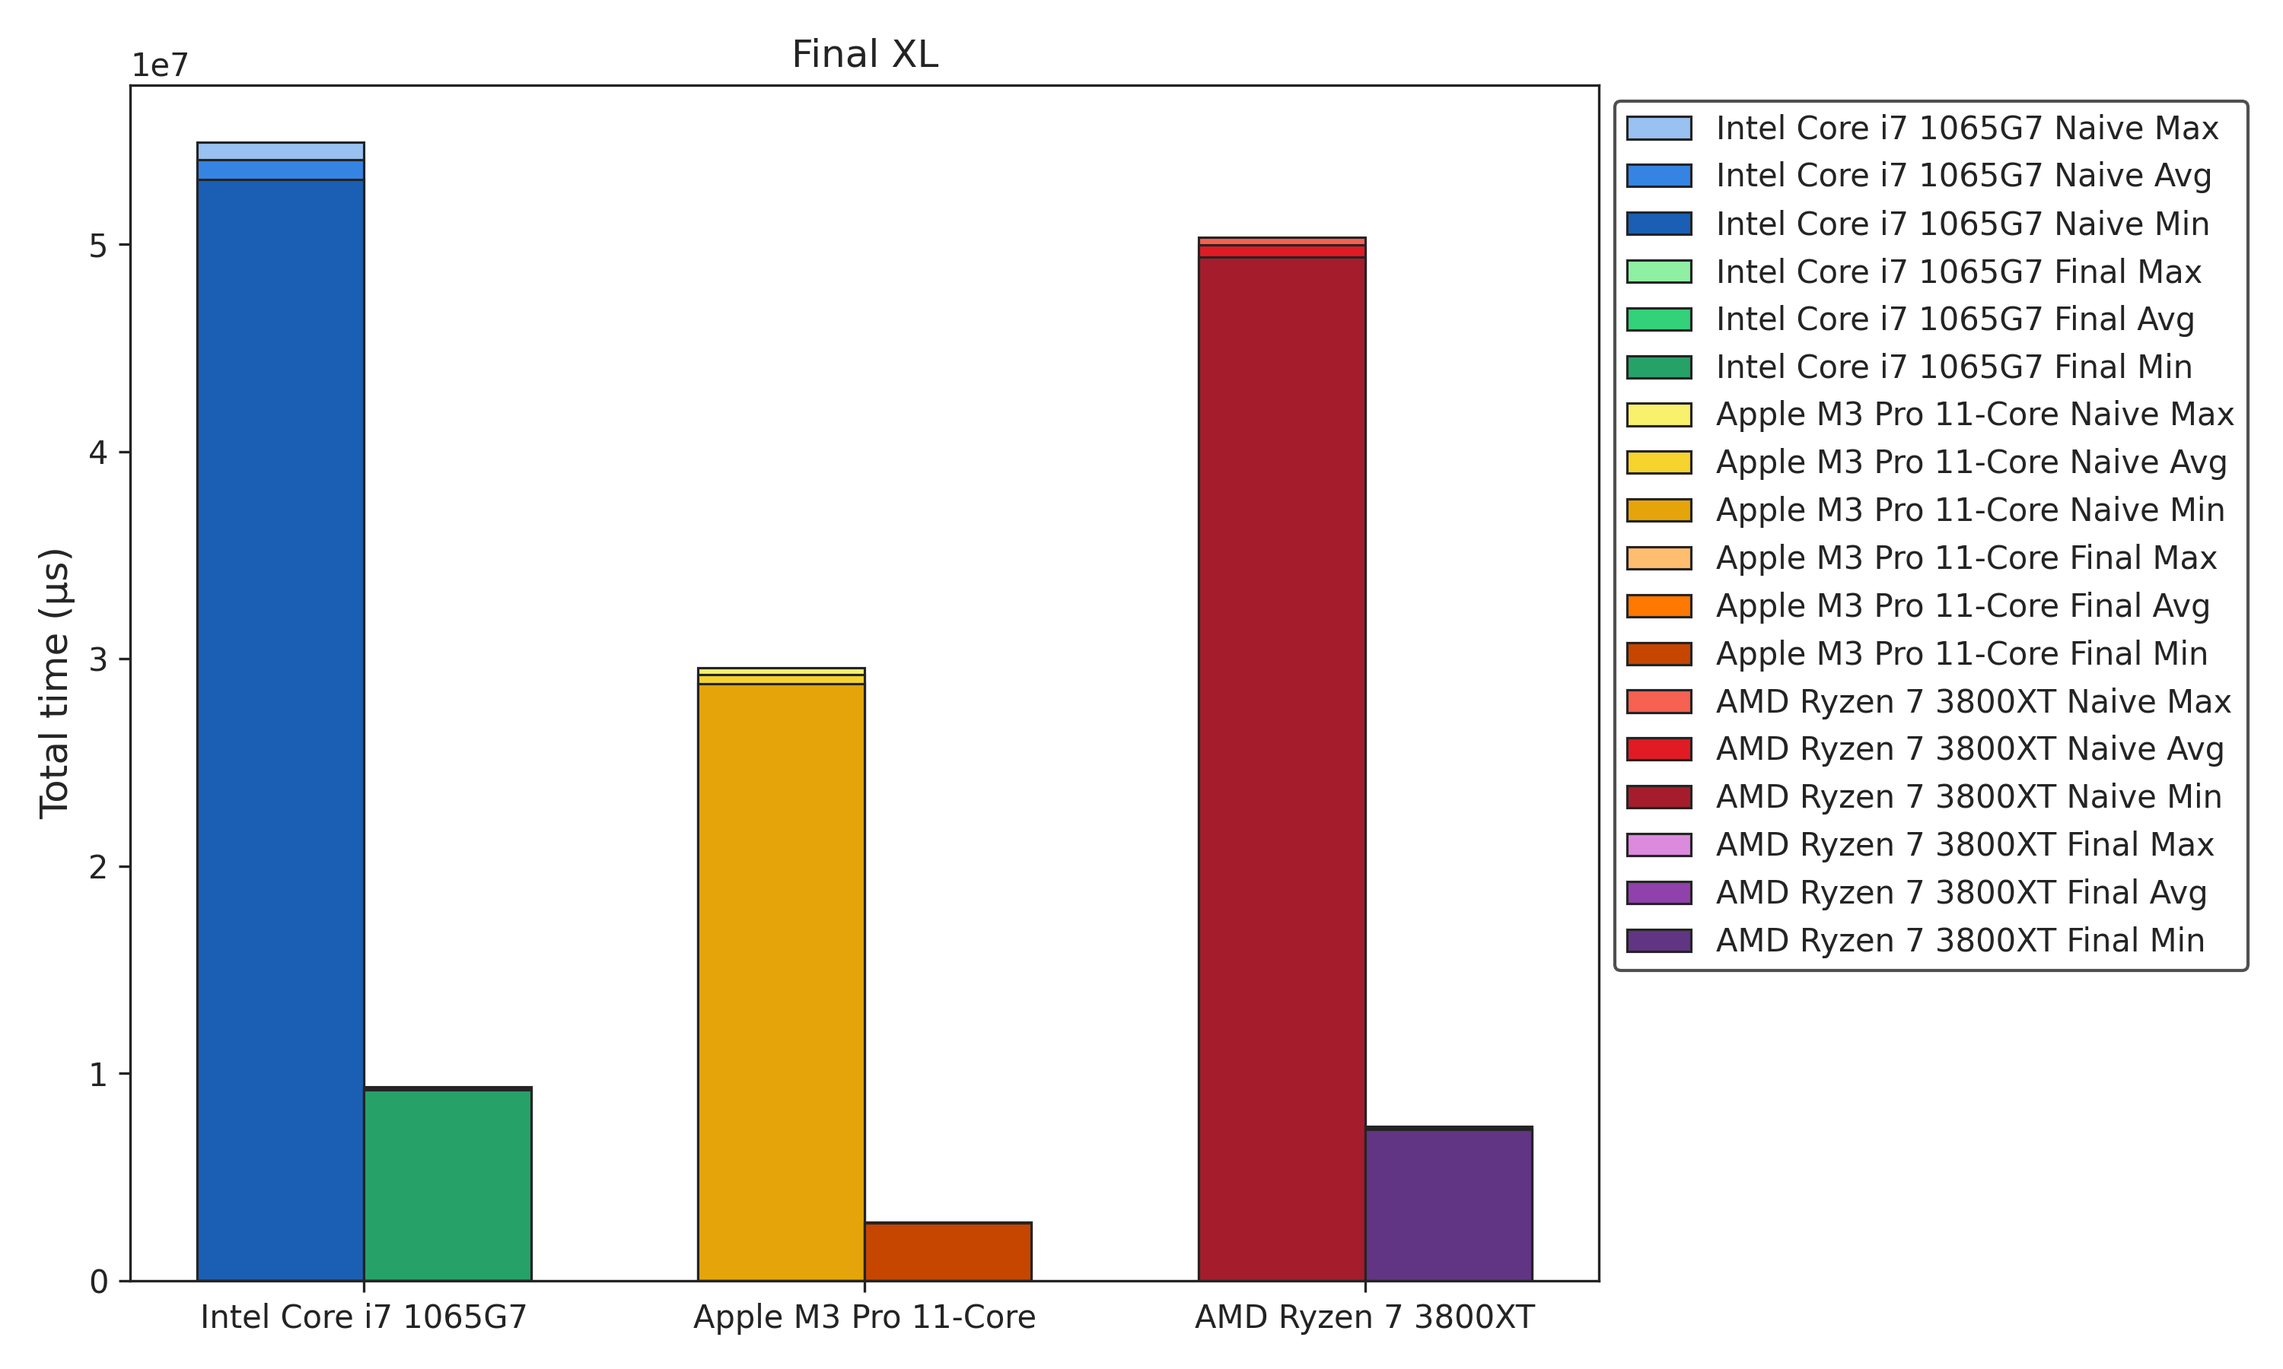
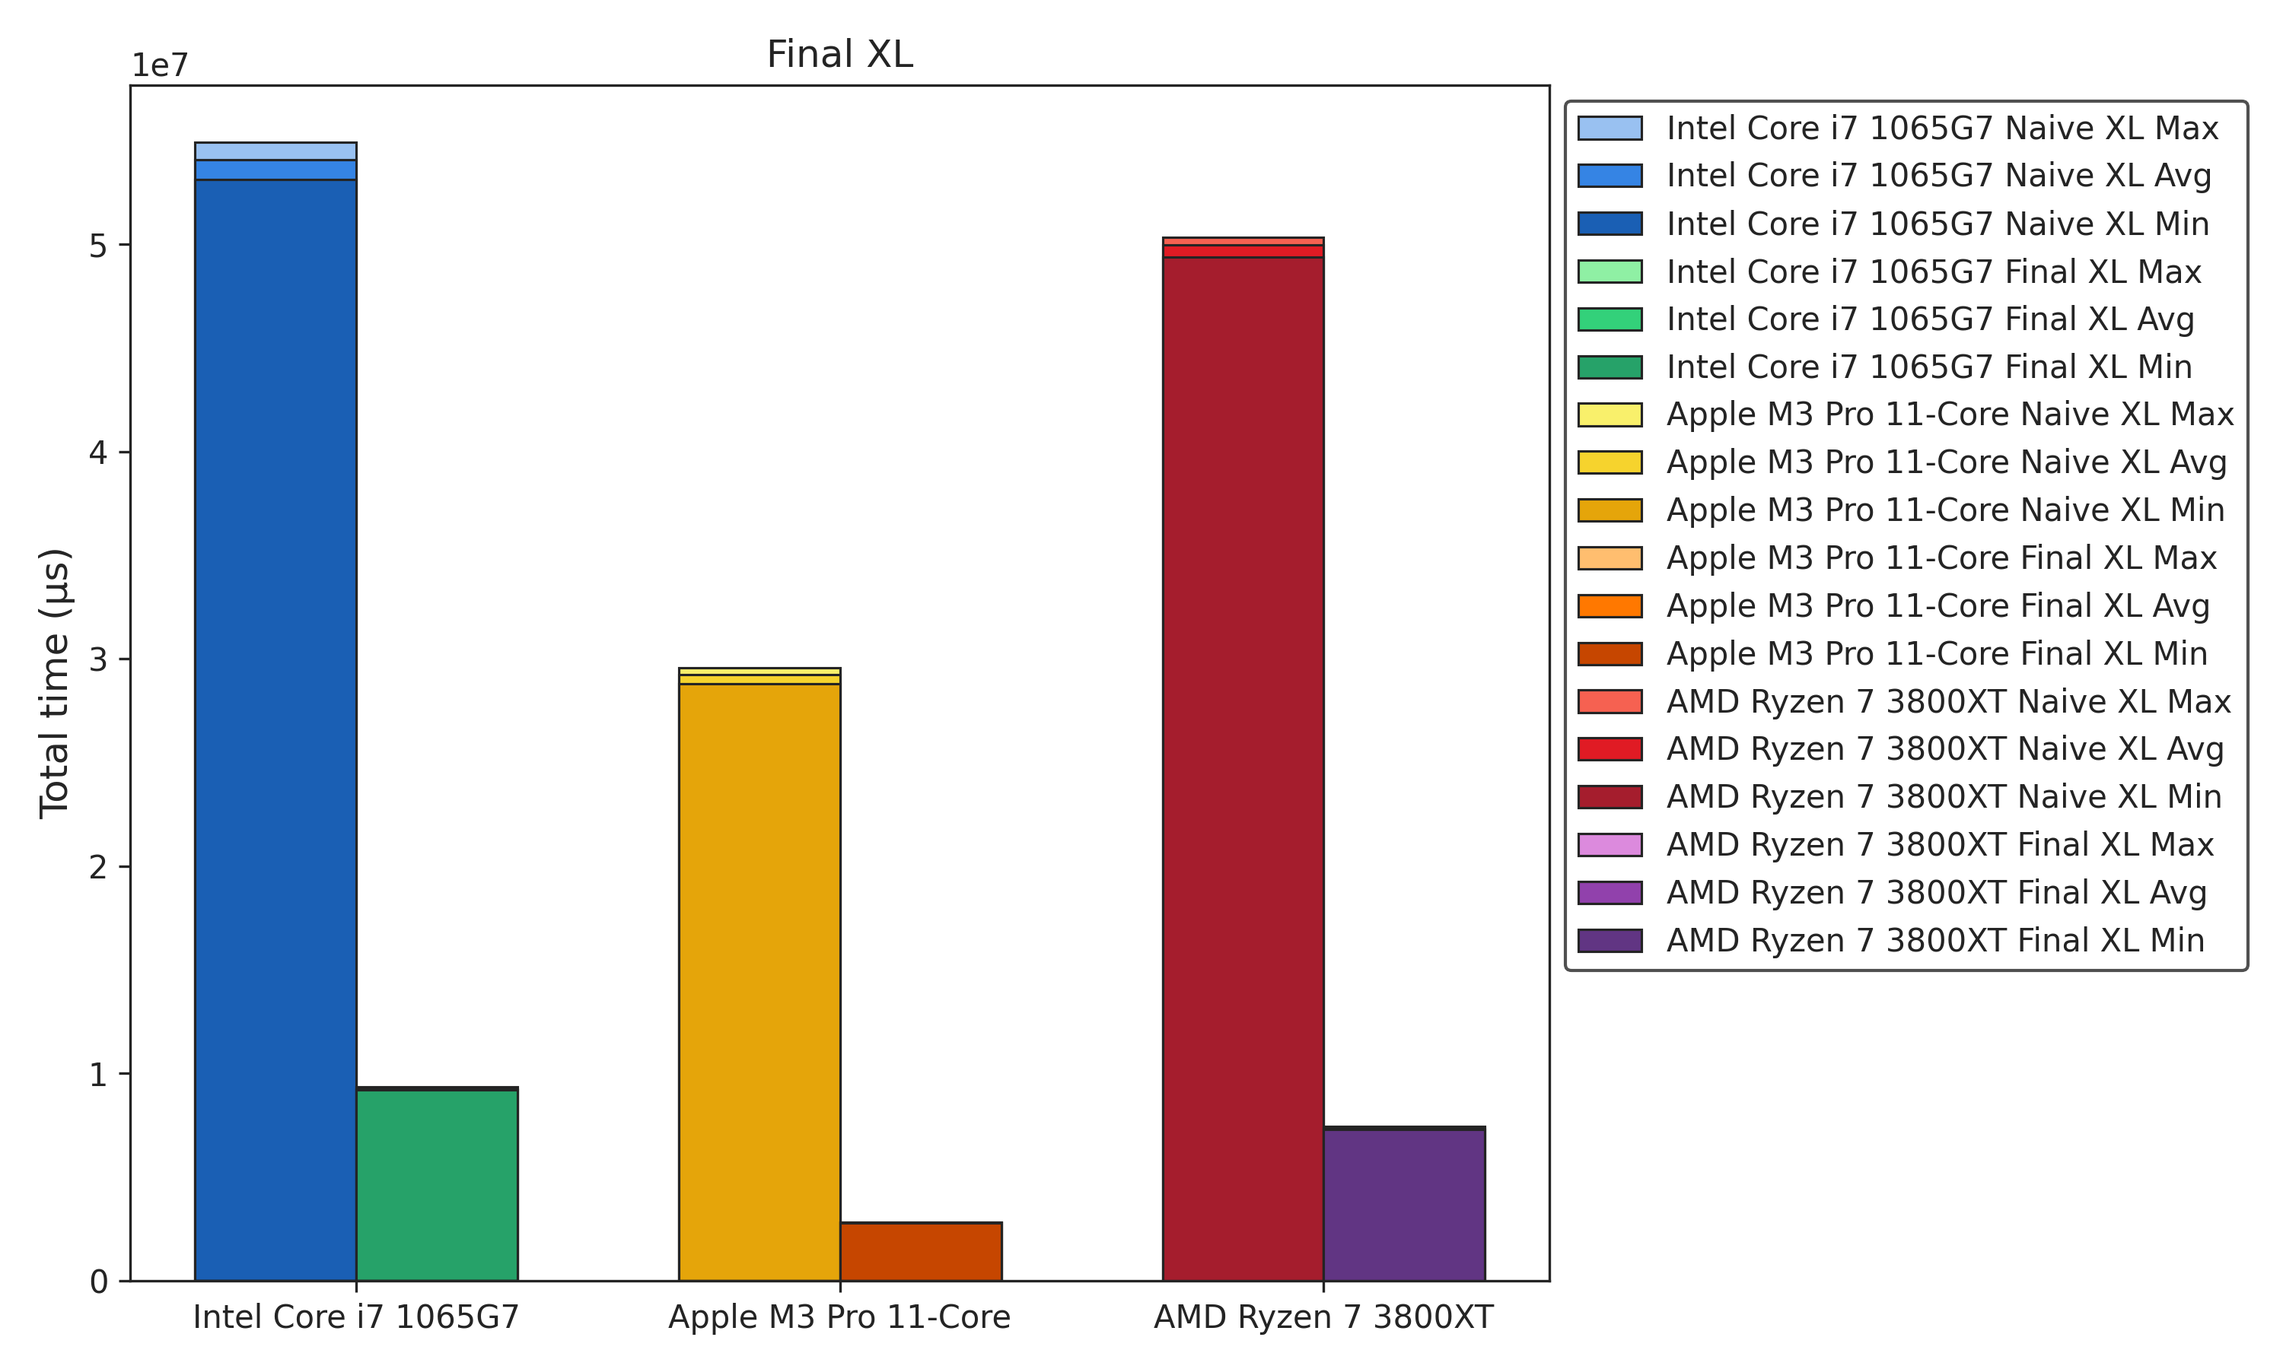
Fixed Final XL
- Fixed Final XL
- Removed avg txt
- Updated Paper Outline
- Updated plot py

diff --git a/Source Code/py/plot.py b/Source Code/py/plot.py
@@ -259,6 +259,17 @@ for f in figures:
             ax.bar(indices, df_dict["amd"]["b_1"]["min"], width=bar_width, label=f"{label_amd} Naive Min", color="#a51d2d", edgecolor=foreground_color, linewidth=0.75)
 
             ax.set_title("Naive", fontsize=12, color=foreground_color, loc="center")
+
+            print(f"naive")
+            print(f'intel: {np.round((df_dict["intel"]["b_1"]["avg"][0] - df_dict["amd"]["b_1"]["avg"][2]) / df_dict["amd"]["b_1"]["avg"][2] * 100, 1)}')
+            print(f'apple: {np.round((df_dict["apple"]["b_1"]["avg"][1] - df_dict["intel"]["b_1"]["avg"][0]) / df_dict["intel"]["b_1"]["avg"][0] * 100, 1)}')
+            print(f'amd: {np.round((df_dict["amd"]["b_1"]["avg"][2] - df_dict["apple"]["b_1"]["avg"][1]) / df_dict["apple"]["b_1"]["avg"][1] * 100, 1)}')
+            print(f"{label_intel} \\\\")
+            print(f'\\hspace{{0.5cm}}Naive & {df_dict["intel"]["b_1"]["min"][0]} & {df_dict["intel"]["b_1"]["avg"][0]} & {df_dict["intel"]["b_1"]["max"][0]} & {df_dict["intel"]["b_1"]["std"][0]} \\\\')
+            print(f"{label_apple} \\\\")
+            print(f'\\hspace{{0.5cm}}Naive & {df_dict["apple"]["b_1"]["min"][1]} & {df_dict["apple"]["b_1"]["avg"][1]} & {df_dict["apple"]["b_1"]["max"][1]} & {df_dict["apple"]["b_1"]["std"][1]} \\\\')
+            print(f"{label_amd} \\\\")
+            print(f'\\hspace{{0.5cm}}Naive & {df_dict["amd"]["b_1"]["min"][2]} & {df_dict["amd"]["b_1"]["avg"][2]} & {df_dict["amd"]["b_1"]["max"][2]} & {df_dict["amd"]["b_1"]["std"][2]} \\\\')
         case "naive_xl":
             group_width = bar_width * 2
             group_gap = 0.15
@@ -275,6 +286,17 @@ for f in figures:
             ax.bar(indices, df_dict["amd"]["xl_1"]["min"], width=bar_width, label=f"{label_amd} Naive XL Min", color="#a51d2d", edgecolor=foreground_color, linewidth=0.75)
 
             ax.set_title("Naive XL", fontsize=12, color=foreground_color, loc="center")
+
+            print(f"naive_xl")
+            print(f'intel: {np.round((df_dict["intel"]["xl_1"]["avg"][0] - df_dict["amd"]["xl_1"]["avg"][2]) / df_dict["amd"]["xl_1"]["avg"][2] * 100, 1)}')
+            print(f'apple: {np.round((df_dict["apple"]["xl_1"]["avg"][1] - df_dict["intel"]["xl_1"]["avg"][0]) / df_dict["intel"]["xl_1"]["avg"][0] * 100, 1)}')
+            print(f'amd: {np.round((df_dict["amd"]["xl_1"]["avg"][2] - df_dict["apple"]["xl_1"]["avg"][1]) / df_dict["apple"]["xl_1"]["avg"][1] * 100, 1)}')
+            print(f"{label_intel} \\\\")
+            print(f'\\hspace{{0.5cm}}Naive XL & {df_dict["intel"]["xl_1"]["min"][0]} & {df_dict["intel"]["xl_1"]["avg"][0]} & {df_dict["intel"]["xl_1"]["max"][0]} & {df_dict["intel"]["xl_1"]["std"][0]} \\\\')
+            print(f"{label_apple} \\\\")
+            print(f'\\hspace{{0.5cm}}Naive XL & {df_dict["apple"]["xl_1"]["min"][1]} & {df_dict["apple"]["xl_1"]["avg"][1]} & {df_dict["apple"]["xl_1"]["max"][1]} & {df_dict["apple"]["xl_1"]["std"][1]} \\\\')
+            print(f"{label_amd} \\\\")
+            print(f'\\hspace{{0.5cm}}Naive XL & {df_dict["amd"]["xl_1"]["min"][2]} & {df_dict["amd"]["xl_1"]["avg"][2]} & {df_dict["amd"]["xl_1"]["max"][2]} & {df_dict["amd"]["xl_1"]["std"][2]} \\\\')
         case "mt_init":
             group_width = bar_width * 2
             group_gap = 0.15
@@ -1032,37 +1054,61 @@ for f in figures:
             b1 = df_dict["intel"]["b_1"]["avg"][0] + df_dict["apple"]["b_1"]["avg"][1] + df_dict["amd"]["b_1"]["avg"][2]
             b2 = df_dict["intel"]["b_7"]["avg"][0] + df_dict["apple"]["b_7"]["avg"][1] + df_dict["amd"]["b_7"]["avg"][2]
 
-            print(f"final: {np.round((b2 - b1) / b1 * 100, 0)}")
+            print(f"final: {np.round((b2 - b1) / b1 * 100, 1)}")
+            print(f'intel: {np.round((df_dict["intel"]["b_7"]["avg"][0] - df_dict["intel"]["b_1"]["avg"][0]) / df_dict["intel"]["b_1"]["avg"][0] * 100, 1)}')
+            print(f'apple: {np.round((df_dict["apple"]["b_7"]["avg"][1] - df_dict["apple"]["b_1"]["avg"][1]) / df_dict["apple"]["b_1"]["avg"][1] * 100, 1)}')
+            print(f'amd: {np.round((df_dict["amd"]["b_7"]["avg"][2] - df_dict["amd"]["b_1"]["avg"][2]) / df_dict["amd"]["b_1"]["avg"][2] * 100, 1)}')
+            print(f"{label_intel} \\\\")
+            print(f'\\hspace{{0.5cm}}Naive & {df_dict["intel"]["b_1"]["min"][0]} & {df_dict["intel"]["b_1"]["avg"][0]} & {df_dict["intel"]["b_1"]["max"][0]} & {df_dict["intel"]["b_1"]["std"][0]} \\\\')
+            print(f'\\hspace{{0.5cm}}Final & {df_dict["intel"]["b_7"]["min"][0]} & {df_dict["intel"]["b_7"]["avg"][0]} & {df_dict["intel"]["b_7"]["max"][0]} & {df_dict["intel"]["b_7"]["std"][0]} \\\\')
+            print(f"{label_apple} \\\\")
+            print(f'\\hspace{{0.5cm}}Naive & {df_dict["apple"]["b_1"]["min"][1]} & {df_dict["apple"]["b_1"]["avg"][1]} & {df_dict["apple"]["b_1"]["max"][1]} & {df_dict["apple"]["b_1"]["std"][1]} \\\\')
+            print(f'\\hspace{{0.5cm}}Final & {df_dict["apple"]["b_7"]["min"][1]} & {df_dict["apple"]["b_7"]["avg"][1]} & {df_dict["apple"]["b_7"]["max"][1]} & {df_dict["apple"]["b_7"]["std"][1]} \\\\')
+            print(f"{label_amd} \\\\")
+            print(f'\\hspace{{0.5cm}}Naive & {df_dict["amd"]["b_1"]["min"][2]} & {df_dict["amd"]["b_1"]["avg"][2]} & {df_dict["amd"]["b_1"]["max"][2]} & {df_dict["amd"]["b_1"]["std"][2]} \\\\')
+            print(f'\\hspace{{0.5cm}}Final & {df_dict["amd"]["b_7"]["min"][2]} & {df_dict["amd"]["b_7"]["avg"][2]} & {df_dict["amd"]["b_7"]["max"][2]} & {df_dict["amd"]["b_7"]["std"][2]} \\\\')
         case "final_xl":
             group_width = bar_width * 2
             group_gap = 0.15
             indices = np.arange(len(threads_omp)) * (group_width + group_gap)
 
-            ax.bar(indices - 0.5 * bar_width, df_dict["intel"]["xl_1"]["max"], width=bar_width, label=f"{label_intel} Naive Max", color="#99c1f1", edgecolor=foreground_color, linewidth=0.75)
-            ax.bar(indices - 0.5 * bar_width, df_dict["intel"]["xl_1"]["avg"], width=bar_width, label=f"{label_intel} Naive Avg", color="#3584e4", edgecolor=foreground_color, linewidth=0.75)
-            ax.bar(indices - 0.5 * bar_width, df_dict["intel"]["xl_1"]["min"], width=bar_width, label=f"{label_intel} Naive Min", color="#1a5fb4", edgecolor=foreground_color, linewidth=0.75)
-            ax.bar(indices + 0.5 * bar_width, df_dict["intel"]["xl_7"]["max"], width=bar_width, label=f"{label_intel} Final Max", color="#8ff0a4", edgecolor=foreground_color, linewidth=0.75)
-            ax.bar(indices + 0.5 * bar_width, df_dict["intel"]["xl_7"]["avg"], width=bar_width, label=f"{label_intel} Final Avg", color="#33d17a", edgecolor=foreground_color, linewidth=0.75)
-            ax.bar(indices + 0.5 * bar_width, df_dict["intel"]["xl_7"]["min"], width=bar_width, label=f"{label_intel} Final Min", color="#26a269", edgecolor=foreground_color, linewidth=0.75)
-            ax.bar(indices - 0.5 * bar_width, df_dict["apple"]["xl_1"]["max"], width=bar_width, label=f"{label_apple} Naive Max", color="#f9f06b", edgecolor=foreground_color, linewidth=0.75)
-            ax.bar(indices - 0.5 * bar_width, df_dict["apple"]["xl_1"]["avg"], width=bar_width, label=f"{label_apple} Naive Avg", color="#f6d32d", edgecolor=foreground_color, linewidth=0.75)
-            ax.bar(indices - 0.5 * bar_width, df_dict["apple"]["xl_1"]["min"], width=bar_width, label=f"{label_apple} Naive Min", color="#e5a50a", edgecolor=foreground_color, linewidth=0.75)
-            ax.bar(indices + 0.5 * bar_width, df_dict["apple"]["xl_7"]["max"], width=bar_width, label=f"{label_apple} Final Max", color="#ffbe6f", edgecolor=foreground_color, linewidth=0.75)
-            ax.bar(indices + 0.5 * bar_width, df_dict["apple"]["xl_7"]["avg"], width=bar_width, label=f"{label_apple} Final Avg", color="#ff7800", edgecolor=foreground_color, linewidth=0.75)
-            ax.bar(indices + 0.5 * bar_width, df_dict["apple"]["xl_7"]["min"], width=bar_width, label=f"{label_apple} Final Min", color="#c64600", edgecolor=foreground_color, linewidth=0.75)
-            ax.bar(indices - 0.5 * bar_width, df_dict["amd"]["xl_1"]["max"], width=bar_width, label=f"{label_amd} Naive Max", color="#f66151", edgecolor=foreground_color, linewidth=0.75)
-            ax.bar(indices - 0.5 * bar_width, df_dict["amd"]["xl_1"]["avg"], width=bar_width, label=f"{label_amd} Naive Avg", color="#e01b24", edgecolor=foreground_color, linewidth=0.75)
-            ax.bar(indices - 0.5 * bar_width, df_dict["amd"]["xl_1"]["min"], width=bar_width, label=f"{label_amd} Naive Min", color="#a51d2d", edgecolor=foreground_color, linewidth=0.75)
-            ax.bar(indices + 0.5 * bar_width, df_dict["amd"]["xl_7"]["max"], width=bar_width, label=f"{label_amd} Final Max", color="#dc8add", edgecolor=foreground_color, linewidth=0.75)
-            ax.bar(indices + 0.5 * bar_width, df_dict["amd"]["xl_7"]["avg"], width=bar_width, label=f"{label_amd} Final Avg", color="#9141ac", edgecolor=foreground_color, linewidth=0.75)
-            ax.bar(indices + 0.5 * bar_width, df_dict["amd"]["xl_7"]["min"], width=bar_width, label=f"{label_amd} Final Min", color="#613583", edgecolor=foreground_color, linewidth=0.75)
+            ax.bar(indices - 0.5 * bar_width, df_dict["intel"]["xl_1"]["max"], width=bar_width, label=f"{label_intel} Naive XL Max", color="#99c1f1", edgecolor=foreground_color, linewidth=0.75)
+            ax.bar(indices - 0.5 * bar_width, df_dict["intel"]["xl_1"]["avg"], width=bar_width, label=f"{label_intel} Naive XL Avg", color="#3584e4", edgecolor=foreground_color, linewidth=0.75)
+            ax.bar(indices - 0.5 * bar_width, df_dict["intel"]["xl_1"]["min"], width=bar_width, label=f"{label_intel} Naive XL Min", color="#1a5fb4", edgecolor=foreground_color, linewidth=0.75)
+            ax.bar(indices + 0.5 * bar_width, df_dict["intel"]["xl_7"]["max"], width=bar_width, label=f"{label_intel} Final XL Max", color="#8ff0a4", edgecolor=foreground_color, linewidth=0.75)
+            ax.bar(indices + 0.5 * bar_width, df_dict["intel"]["xl_7"]["avg"], width=bar_width, label=f"{label_intel} Final XL Avg", color="#33d17a", edgecolor=foreground_color, linewidth=0.75)
+            ax.bar(indices + 0.5 * bar_width, df_dict["intel"]["xl_7"]["min"], width=bar_width, label=f"{label_intel} Final XL Min", color="#26a269", edgecolor=foreground_color, linewidth=0.75)
+            ax.bar(indices - 0.5 * bar_width, df_dict["apple"]["xl_1"]["max"], width=bar_width, label=f"{label_apple} Naive XL Max", color="#f9f06b", edgecolor=foreground_color, linewidth=0.75)
+            ax.bar(indices - 0.5 * bar_width, df_dict["apple"]["xl_1"]["avg"], width=bar_width, label=f"{label_apple} Naive XL Avg", color="#f6d32d", edgecolor=foreground_color, linewidth=0.75)
+            ax.bar(indices - 0.5 * bar_width, df_dict["apple"]["xl_1"]["min"], width=bar_width, label=f"{label_apple} Naive XL Min", color="#e5a50a", edgecolor=foreground_color, linewidth=0.75)
+            ax.bar(indices + 0.5 * bar_width, df_dict["apple"]["xl_7"]["max"], width=bar_width, label=f"{label_apple} Final XL Max", color="#ffbe6f", edgecolor=foreground_color, linewidth=0.75)
+            ax.bar(indices + 0.5 * bar_width, df_dict["apple"]["xl_7"]["avg"], width=bar_width, label=f"{label_apple} Final XL Avg", color="#ff7800", edgecolor=foreground_color, linewidth=0.75)
+            ax.bar(indices + 0.5 * bar_width, df_dict["apple"]["xl_7"]["min"], width=bar_width, label=f"{label_apple} Final XL Min", color="#c64600", edgecolor=foreground_color, linewidth=0.75)
+            ax.bar(indices - 0.5 * bar_width, df_dict["amd"]["xl_1"]["max"], width=bar_width, label=f"{label_amd} Naive XL Max", color="#f66151", edgecolor=foreground_color, linewidth=0.75)
+            ax.bar(indices - 0.5 * bar_width, df_dict["amd"]["xl_1"]["avg"], width=bar_width, label=f"{label_amd} Naive XL Avg", color="#e01b24", edgecolor=foreground_color, linewidth=0.75)
+            ax.bar(indices - 0.5 * bar_width, df_dict["amd"]["xl_1"]["min"], width=bar_width, label=f"{label_amd} Naive XL Min", color="#a51d2d", edgecolor=foreground_color, linewidth=0.75)
+            ax.bar(indices + 0.5 * bar_width, df_dict["amd"]["xl_7"]["max"], width=bar_width, label=f"{label_amd} Final XL Max", color="#dc8add", edgecolor=foreground_color, linewidth=0.75)
+            ax.bar(indices + 0.5 * bar_width, df_dict["amd"]["xl_7"]["avg"], width=bar_width, label=f"{label_amd} Final XL Avg", color="#9141ac", edgecolor=foreground_color, linewidth=0.75)
+            ax.bar(indices + 0.5 * bar_width, df_dict["amd"]["xl_7"]["min"], width=bar_width, label=f"{label_amd} Final XL Min", color="#613583", edgecolor=foreground_color, linewidth=0.75)
 
             ax.set_title("Final XL", fontsize=12, color=foreground_color, loc="center")
 
             b1 = df_dict["intel"]["xl_1"]["avg"][0] + df_dict["apple"]["xl_1"]["avg"][1] + df_dict["amd"]["xl_1"]["avg"][2]
             b2 = df_dict["intel"]["xl_7"]["avg"][0] + df_dict["apple"]["xl_7"]["avg"][1] + df_dict["amd"]["xl_7"]["avg"][2]
 
-            print(f"final_xl: {np.round((b2 - b1) / b1 * 100, 0)}")
+            print(f"final_xl: {np.round((b2 - b1) / b1 * 100, 1)}")
+            print(f'intel: {np.round((df_dict["intel"]["xl_7"]["avg"][0] - df_dict["intel"]["xl_1"]["avg"][0]) / df_dict["intel"]["xl_1"]["avg"][0] * 100, 1)}')
+            print(f'apple: {np.round((df_dict["apple"]["xl_7"]["avg"][1] - df_dict["apple"]["xl_1"]["avg"][1]) / df_dict["apple"]["xl_1"]["avg"][1] * 100, 1)}')
+            print(f'amd: {np.round((df_dict["amd"]["xl_7"]["avg"][2] - df_dict["amd"]["xl_1"]["avg"][2]) / df_dict["amd"]["xl_1"]["avg"][2] * 100, 1)}')
+            print(f"{label_intel} \\\\")
+            print(f'\\hspace{{0.5cm}}Naive XL & {df_dict["intel"]["xl_1"]["min"][0]} & {df_dict["intel"]["xl_1"]["avg"][0]} & {df_dict["intel"]["xl_1"]["max"][0]} & {df_dict["intel"]["xl_1"]["std"][0]} \\\\')
+            print(f'\\hspace{{0.5cm}}Final XL & {df_dict["intel"]["xl_7"]["min"][0]} & {df_dict["intel"]["xl_7"]["avg"][0]} & {df_dict["intel"]["xl_7"]["max"][0]} & {df_dict["intel"]["xl_7"]["std"][0]} \\\\')
+            print(f"{label_apple} \\\\")
+            print(f'\\hspace{{0.5cm}}Naive XL & {df_dict["apple"]["xl_1"]["min"][1]} & {df_dict["apple"]["xl_1"]["avg"][1]} & {df_dict["apple"]["xl_1"]["max"][1]} & {df_dict["apple"]["xl_1"]["std"][1]} \\\\')
+            print(f'\\hspace{{0.5cm}}Final XL & {df_dict["apple"]["xl_7"]["min"][1]} & {df_dict["apple"]["xl_7"]["avg"][1]} & {df_dict["apple"]["xl_7"]["max"][1]} & {df_dict["apple"]["xl_7"]["std"][1]} \\\\')
+            print(f"{label_amd} \\\\")
+            print(f'\\hspace{{0.5cm}}Naive XL & {df_dict["amd"]["xl_1"]["min"][2]} & {df_dict["amd"]["xl_1"]["avg"][2]} & {df_dict["amd"]["xl_1"]["max"][2]} & {df_dict["amd"]["xl_1"]["std"][2]} \\\\')
+            print(f'\\hspace{{0.5cm}}Final XL & {df_dict["amd"]["xl_7"]["min"][2]} & {df_dict["amd"]["xl_7"]["avg"][2]} & {df_dict["amd"]["xl_7"]["max"][2]} & {df_dict["amd"]["xl_7"]["std"][2]} \\\\')
         case "cuda":
             group_width = bar_width * 2
             group_gap = 0.15
@@ -1281,7 +1327,6 @@ for f in figures:
 
     plt.tight_layout()
 
-    """
     try:
         os.mkdir("../Graphs/7. Presentation")
     except:
@@ -1348,7 +1393,6 @@ for f in figures:
             plt.savefig("../Graphs/7. Presentation/CPU vs. GPU.png", dpi=300)
         case "cpu_gpu_xl":
             plt.savefig("../Graphs/7. Presentation/CPU vs. GPU XL.png", dpi=300)
-    """
 
     # plt.show()
     plt.close(fig)

diff --git a/Paper/Outline.md b/Paper/Outline.md
@@ -58,7 +58,7 @@ In-Depth Benchmarking and Evaluation of Multithreading, OpenMP, SIMD, Quantizati
             - NO_SIMD INT: 2,050,771 bytes
         - Performance Benchmarks (SIMD vs. Quantization)
     - Other Optimizations (Robert)
-    - Inital vs. Final Benchmarks (Robert) (1. Presentation vs. 6. Presentation)
+    - Inital vs. Final Implementation (Robert) (1. Presentation vs. 6. Presentation)
 7. GPU-Based Optimizations (Max)
     - Overview of CUDA
     - CUDA Kernels
